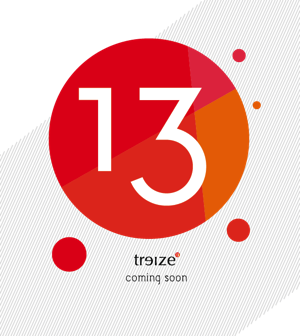
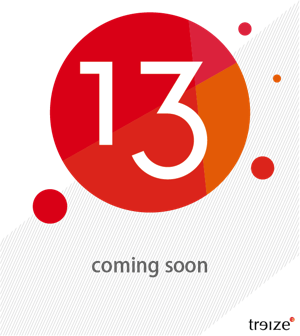
增加圈子和邮箱的占位图片。修改treize占位图片。

diff --git a/WeTongji/Classes/CirclesViewController.m b/WeTongji/Classes/CirclesViewController.m
@@ -28,7 +28,7 @@
     [super viewDidLoad];
     // Do any additional setup after loading the view from its nib.
     [self configureNavBar];
-    [self configurePlaceHolderImage];
+    [self configurePlaceHolder];
 }
 
 - (void)viewDidUnload
@@ -46,7 +46,8 @@
     self.navigationItem.titleView = titleLabel;
 }
 
-- (void)configurePlaceHolderImage {
-    self.placeHolderImageView.image = [UIImage imageNamed:@"coming_soon_treize"];
+- (void)configurePlaceHolder {
+    self.placeHolderImageView.image = [UIImage imageNamed:@"coming_soon_circles"];
+    self.descriptionLabel.text = @"群发通知 交换名片 关注好友动态";
 }
 @end

diff --git a/WeTongji/Classes/MailViewController.m b/WeTongji/Classes/MailViewController.m
@@ -28,7 +28,7 @@
     [super viewDidLoad];
 	// Do any additional setup after loading the view.
     [self configureNavBar];
-    [self configurePlaceHolderImage];
+    [self configurePlaceHolder];
 }
 
 - (void)viewDidUnload
@@ -45,8 +45,9 @@
     self.navigationItem.titleView = titleLabel;
 }
 
-- (void)configurePlaceHolderImage {
-    self.placeHolderImageView.image = [UIImage imageNamed:@"coming_soon_treize"];
+- (void)configurePlaceHolder {
+    self.placeHolderImageView.image = [UIImage imageNamed:@"coming_soon_mail"];
+    self.descriptionLabel.text = @"整合@tongji.edu.cn电子邮箱";
 }
 
 @end

diff --git a/WeTongji/Classes/TreizeViewController.m b/WeTongji/Classes/TreizeViewController.m
@@ -28,7 +28,7 @@
     [super viewDidLoad];
     // Do any additional setup after loading the view from its nib.
     [self configureNavBar];
-    [self configurePlaceHolderImage];
+    [self configurePlaceHolder];
 }
 
 - (void)viewDidUnload
@@ -49,8 +49,10 @@
     self.navigationItem.rightBarButtonItem = nextButton;
 }
 
-- (void)configurePlaceHolderImage {
+- (void)configurePlaceHolder {
     self.placeHolderImageView.image = [UIImage imageNamed:@"coming_soon_treize"];
+    self.comingSoonLabel.hidden = YES;
+    self.descriptionLabel.hidden = YES;
 }
 
 #pragma mark -

diff --git a/WeTongji/Classes/ComingSoonViewController.m b/WeTongji/Classes/ComingSoonViewController.m
@@ -17,6 +17,8 @@
 @synthesize mainBgView = _mainBgView;
 @synthesize placeHolderImageView = _placeHolderImageView;
 @synthesize scrollView = _scrollView;
+@synthesize comingSoonLabel = _comingSoonLabel;
+@synthesize descriptionLabel = _descriptionLabel;
 
 - (id)initWithNibName:(NSString *)nibNameOrNil bundle:(NSBundle *)nibBundleOrNil
 {
@@ -43,6 +45,8 @@
     self.mainBgView = nil;
     self.placeHolderImageView = nil;
     self.scrollView = nil;
+    self.comingSoonLabel = nil;
+    self.descriptionLabel = nil;
 }
 
 #pragma mark -

diff --git a/WeTongji/Classes/ComingSoonViewController.h b/WeTongji/Classes/ComingSoonViewController.h
@@ -14,5 +14,7 @@
 @property (nonatomic, strong) IBOutlet UIView *mainBgView;
 @property (nonatomic, strong) IBOutlet UIImageView *placeHolderImageView;
 @property (nonatomic, strong) IBOutlet UIScrollView *scrollView;
+@property (nonatomic, strong) IBOutlet UILabel *comingSoonLabel;
+@property (nonatomic, strong) IBOutlet UILabel *descriptionLabel;
 
 @end
